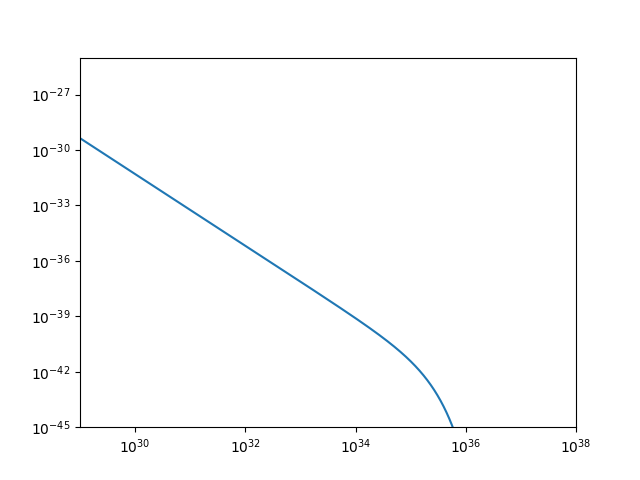
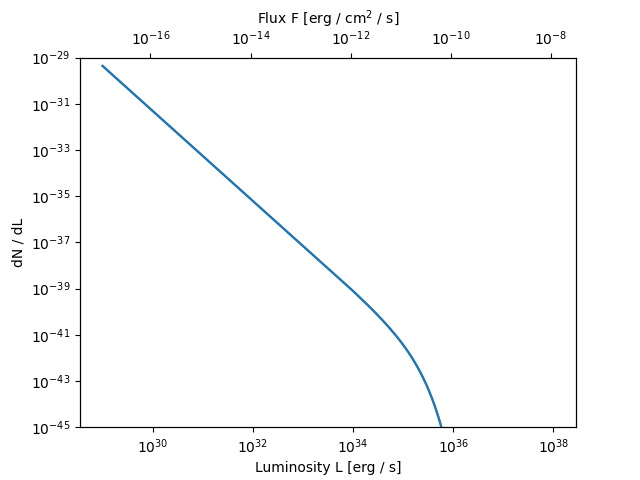
power law

diff --git a/luminosity_func.py b/luminosity_func.py
@@ -8,25 +8,39 @@ from scipy.special import gamma
 import os
 
 #****************************************************************************
-min = 1.0e29
-max = 1.0e37
+#LUMINOSITY FUNCTION EVALUATION
+
+min = 1.0e29       #erg s^(-1)     #min for graph
+max = 1.0e38       #erg s^(-1)     #max for graph
+r = 1.11e-46       #cm^(-2)        #flux/lum ratio
 
 #power law - wavelet 1
-l_m1 = 1.0e29  #L_min : low flux step-func cutoff
-l_M1 = 1.0e35  #L_MAX : high flux exp cutoff
+l_m1 = 1.0e29  #erg s^(-1)  #L_min : low flux step-func cutoff
+l_M1 = 1.0e35  #erg s^(-1)   #L_MAX : high flux exp cutoff
 alpha1 = 1.94  #slope
 
-l= np.linspace(min, max,100000)
+l= np.linspace(min, max,10000)
+f_pl = l * r
 
+p_pl1 = l**(-alpha1) * np.exp(-l/l_M1) / (gamma((l_m1/l_M1)) * l_M1**(1.0-alpha1)) #power law lum funcs
 
-p_pl = l**(-alpha1)*np.exp(-l/l_M1) / (gamma((l_m1/l_M1)) * l_M1**(1.0-alpha1))
+#*****************************************************************************
+#PLOTS
 
-fig, ax = plt.subplots()
-plt.ylim(1.0e-45,1.0e-25)
-plt.xlim(min, 1.0e38)
+fig, ax1 = plt.subplots()
+ax2 = ax1.twiny()
 
+ax1.set_xticks(np.geomspace(1.0e30, 1.0e38, 5))
+ax2.set_xticks(np.geomspace(1.0e-15, 1.0e-9, 4))
+ax1.set_yticks(np.geomspace(1.0e-45, 1.e-29, 5))
 
+ax1.set_xlabel("Luminosity L [erg / s]")
+ax2.set_xlabel(r'Flux F [erg / $\mathregular{cm^2}$ / s]')
+ax1.set_ylabel("dN / dL")
 
-ax.loglog(l,p_pl)
+ax1.loglog(l,p_pl1)
+ax2.loglog(f_pl, p_pl1)
+
+plt.ylim(1.0e-45 , 1.0e-29)
 
 plt.savefig(os.path.join('pl.png'))
